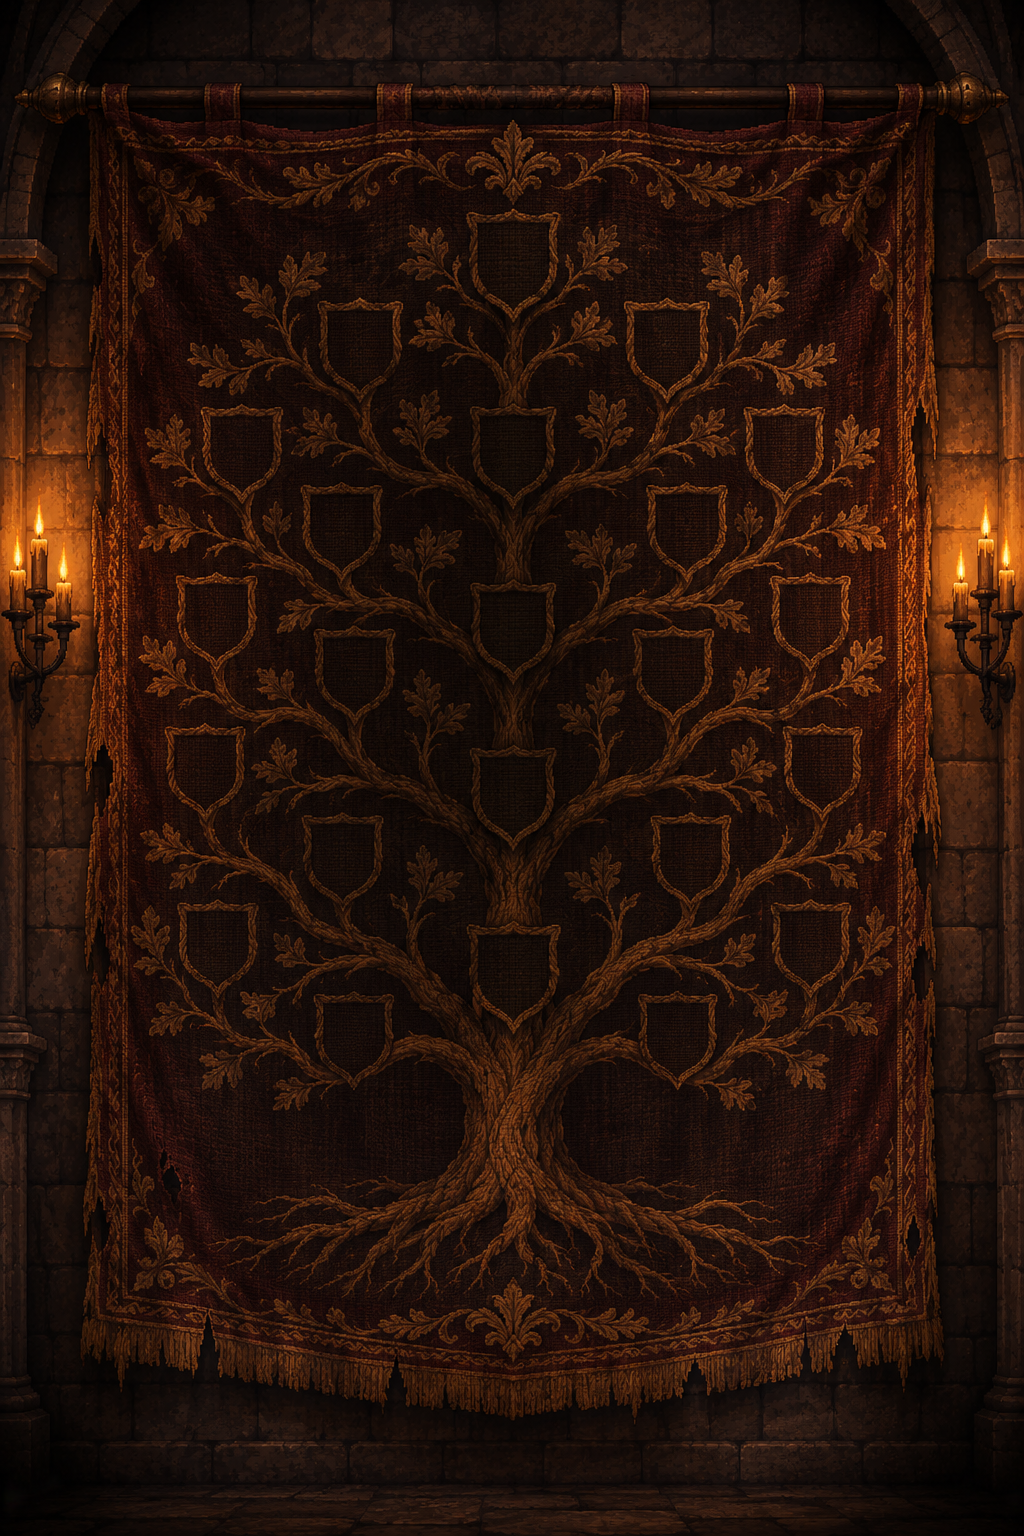
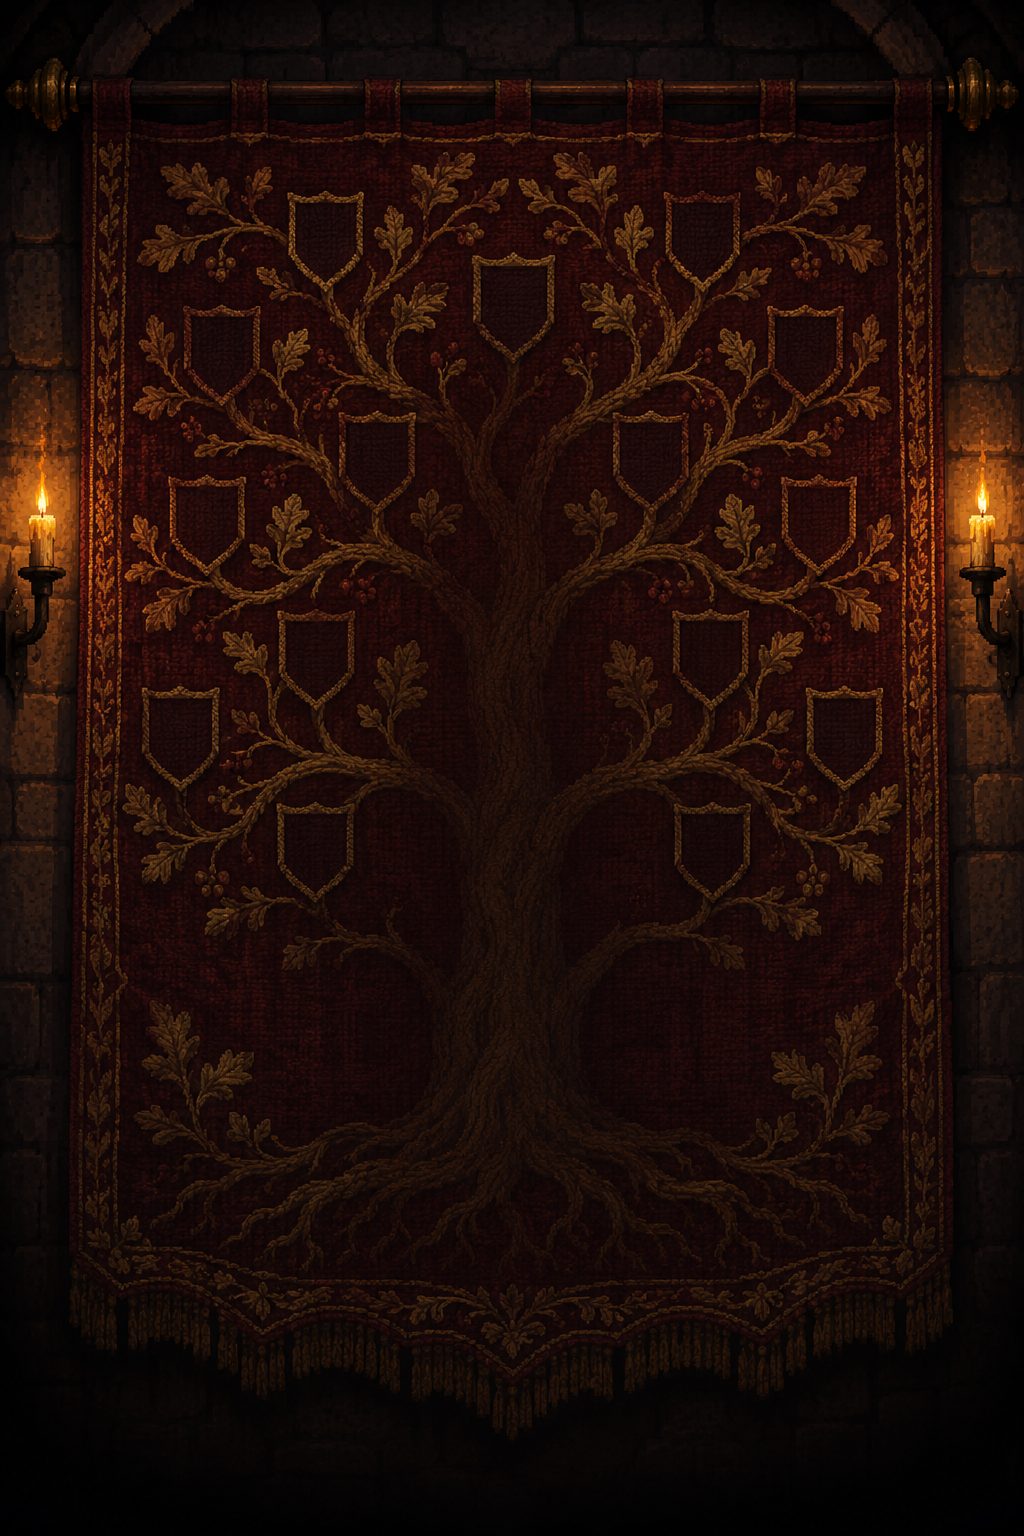
art: repaint houses tapestry menu backdrop

diff --git a/docs/notes/expansion-2-art-prompts.md b/docs/notes/expansion-2-art-prompts.md
@@ -25,3 +25,19 @@ small gold laurel wreath. Distinct whole silhouettes with transparent padding.
 ```text
 Repository hpatter9/legends-of-the-fall; branch art/expansion-2; output art-source/expansion/frames.png. Paint ONE 1280x256 transparent PNG, five equal 256x256 cells in one row, no text. Match the existing dark fantasy painted pixel-art UI: aged brass and gold, dark outlines, restrained highlights and dark crimson accents. Cells 1–3: matching thin square brass portrait frames, fully transparent centres, bearing exactly ONE, TWO, THREE deep diagonal claw scars respectively, dark red beneath torn brass. Cell 4: aged gold filigree square heirloom frame, transparent centre, small family crest at top, exactly three empty notches along bottom. Cell 5: one gold signet ring with red stone, centred and filling about 60% of its cell. Transparent background and padding; no lettering, no extra objects.
 ```
+
+## Houses tapestry backdrop
+
+```text
+Repository hpatter9/legends-of-the-fall. Branch art/expansion-2.
+Paint ONE image: art-source/expansion/houses-backdrop.png, exact 1024x1536
+upright 2:3 PNG. Opaque full scene (this menu backdrop requires no transparency).
+Painterly pixel art in the game's muted medieval dark fantasy style.
+A great woven tapestry of a family tree hung in a stone hall: gold-thread
+branches spread from one root to many small empty shield-shaped frames.
+Candles in iron sconces either side cast warm amber light. Visible woven
+cloth texture, aged gold, deep umber and muted burgundy. Darken the edges
+and the middle so menu text reads over it. Keep the central vertical area
+quiet, low contrast and deeply shadowed, while the branching design remains
+legible around it. No people, no text, no letters or numbers, no shield emblems.
+```

diff --git a/docs/TASKS.md b/docs/TASKS.md
@@ -1250,3 +1250,11 @@ UI-007 final 0.190.0 validation complete: current Last Stand Auto, pause/resume,
 
 EXPANSION-2-FRAMES — Codex; art/expansion-2; /workspace/legends-of-the-fall. Owner requests one five-cell 1280x256 transparent source sheet at art-source/expansion/frames.png, matching existing style, added to Expansion art 2 PR #464. Scope: that source image plus required prompt/task/handoff records. Completion: visual review, exact size and transparent centres/background, commit and push to existing PR. No runtime changes.
 - **EXPANSION-2-FRAMES result:** five-cell source sheet painted and visually reviewed; dimensions, RGBA, binary alpha, padding and empty portrait centres verified. Ready for review in PR #464. See [handoff](notes/expansion-2-art.md). Runtime checks not run (source art only).
+
+### EXPANSION-2-HOUSES — Tapestry menu backdrop
+
+- Owner: Codex art chat. Branch/worktree: `art/expansion-2`, `/workspace/legends-of-the-fall`; PR #464.
+- Scope: one `art-source/expansion/houses-backdrop.png`, prompt and handoff documentation.
+- Direction: owner's supplied tapestry brief; opaque 1024×1536 painterly pixel art, branching gold family tree and empty shields, stone hall and amber sconces, dark centre/edges, no people or text.
+- Completion: exact PNG dimensions, visual review, commit and push to Expansion art 2.
+- Status: ready for review. PNG decode, 1024×1536 dimensions and opacity passed; finished art visually reviewed. Source art only; no runtime checks. [Handoff](notes/expansion-2-houses-backdrop.md).

diff --git a/docs/notes/expansion-2-houses-backdrop.md b/docs/notes/expansion-2-houses-backdrop.md
@@ -1,0 +1,14 @@
+# Houses tapestry backdrop — Expansion art 2
+
+Owner requested one source backdrop on `art/expansion-2` for PR #464.
+Repainted `art-source/expansion/houses-backdrop.png` as an opaque 1024×1536
+portrait painterly pixel-art scene: a woven burgundy family-tree tapestry,
+aged gold-thread branches and empty shields, stone hall, and paired iron
+candle sconces in amber light. The central trunk, edges and lower portion
+are shadowed for menu text. No people or text.
+
+Validation: decoded PNG and exact dimensions/opacity checked with Pillow;
+visually reviewed the finished image for composition, empty shields, paired
+sconces, woven texture and dark centre/edges. Runtime tests and build not run:
+source art and documentation only. Menu integration remains with the director.
+Prompt: [Expansion art 2 prompts](expansion-2-art-prompts.md).
